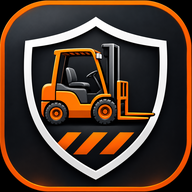
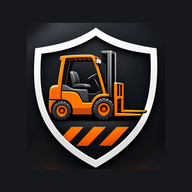
Add files via upload

diff --git a/index.html b/index.html
@@ -8,7 +8,7 @@
     <link rel="manifest" href="./manifest.json">
     <link rel="icon" type="image/png" sizes="32x32" href="./favicon-32.png">
     <link rel="apple-touch-icon" href="./app-icon-192.png">
-    <title>Lion Brewery (Biyagama) — Forklift Safety & Pre-Check Management System</title>
+    <title>LION BREWERY CEYLON PLC — Forklift Safety & Pre-Check</title>
     <!-- Tailwind CSS -->
     <script src="https://cdn.tailwindcss.com"></script>
     <!-- Google Fonts: Inter -->
@@ -216,30 +216,23 @@
     </div>
 
     <!-- Top Header & Navigation -->
-    <header class="sticky top-0 z-40 backdrop-blur-md border-b" style="background-color: var(--bg-card); border-color: var(--border-color);">
-        <div class="max-w-[1600px] mx-auto px-4 sm:px-6 lg:px-8 py-3.5 flex flex-col md:flex-row items-center justify-between gap-3">
-            <!-- Brand Title -->
-            <div class="flex items-center gap-3.5 w-full md:w-auto">
-                <div class="w-11 h-11 rounded-2xl flex items-center justify-center shadow-lg shrink-0" style="background: linear-gradient(135deg, var(--accent-color), var(--accent-hover));">
-                    <i class="fa-solid fa-shield-halved text-white text-xl"></i>
-                </div>
-                <div>
-                    <div class="flex items-center gap-2">
-                        <span class="px-2 py-0.5 text-[10px] font-bold uppercase tracking-wider rounded-md border" style="background-color: var(--accent-glow); color: var(--accent-color); border-color: var(--border-color);">
-                            HSE & Fleet Compliance
-                        </span>
-                        <span class="text-xs" style="color: var(--text-muted);">&#8226; Biyagama Plant</span>
-                    </div>
-                    <h1 class="text-sm sm:text-base lg:text-lg font-extrabold tracking-tight mt-0.5" style="color: var(--text-main);">
-                        Lion Brewery (Biyagama) &mdash; Forklift Safety & Pre-Check Management System
+    <header class="border-b" style="border-color: var(--border-color);">
+        <div class="relative overflow-hidden" style="background:#1a1208;">
+            <img src="./lion-banner.jpg" alt="Lion Beer" class="absolute inset-0 w-full h-full object-cover" style="object-position:left center; opacity:.95;">
+            <div class="absolute inset-0" style="background:linear-gradient(90deg, rgba(10,10,12,.05) 0%, rgba(10,10,12,.55) 45%, rgba(10,10,12,.88) 100%);"></div>
+            <div class="relative max-w-[1600px] mx-auto px-4 sm:px-6 lg:px-8 py-5 sm:py-7 flex items-center justify-end gap-3.5 min-h-[150px] sm:min-h-[190px]">
+                <div class="text-right max-w-[62%] sm:max-w-[60%]">
+                    <img src="./header-logo.png" alt="Forklift Safety" class="w-12 h-12 sm:w-14 sm:h-14 rounded-2xl shadow-lg ml-auto mb-2">
+                    <h1 class="text-sm sm:text-xl lg:text-2xl font-extrabold tracking-tight leading-tight" style="color:#fff; text-shadow:0 2px 8px rgba(0,0,0,.7);">
+                        LION BREWERY CEYLON PLC
+                        <span class="block mt-0.5" style="color:#ffb274;">Forklift Safety &amp; Pre-Check</span>
                     </h1>
                 </div>
             </div>
-
-            <!-- Header Right Controls & Theme Selector -->
-            <div class="flex items-center gap-3 w-full md:w-auto justify-between md:justify-end">
-                <!-- Primary View Navigation -->
-                <nav class="flex items-center gap-2 p-1.5 rounded-2xl border" style="background-color: var(--bg-card); border-color: var(--border-color);">
+        </div>
+        <div class="hidden md:block" style="background-color: var(--bg-card);">
+            <div class="max-w-[1600px] mx-auto px-4 sm:px-6 lg:px-8 py-2.5 flex justify-end">
+                <nav class="hidden md:flex items-center gap-2 p-1.5 rounded-2xl border" style="background-color: var(--bg-card); border-color: var(--border-color);">
                     <button type="button" id="navDashboardBtn" onclick="switchView('dashboard')"
                         class="flex items-center gap-2 px-3.5 py-2 rounded-xl text-xs font-semibold transition-all text-white shadow-md" style="background-color: var(--accent-color);">
                         <i class="fa-solid fa-chart-line"></i>
@@ -312,6 +305,12 @@
                         class="flex items-center gap-2 px-4 py-2 rounded-xl text-xs font-bold text-white shadow-lg transition-all" style="background-color: var(--accent-color);">
                         <i class="fa-solid fa-plus"></i>
                         <span>New Inspection (APK)</span>
+                    </button>
+
+                    <button type="button" onclick="openScanner()"
+                        class="flex items-center gap-2 px-4 py-2 rounded-xl text-xs font-bold border shadow transition-all" style="background-color: var(--bg-main); border-color: var(--border-color); color: var(--accent-color);">
+                        <i class="fa-solid fa-qrcode"></i>
+                        <span>Scan QR</span>
                     </button>
                 </div>
             </div>
@@ -548,6 +547,7 @@
                             <select id="formForkliftNo" onchange="onForkliftChange()" required
                                 class="w-full border rounded-xl px-3.5 py-3 text-sm font-bold focus:outline-none" style="background-color: var(--bg-main); border-color: var(--border-color); color: var(--text-main);">
                             </select>
+                            <button type="button" onclick="openScanner()" class="w-full mt-2 py-2.5 rounded-xl text-xs font-bold text-white shadow flex items-center justify-center gap-2" style="background-color: var(--accent-color);"><i class="fa-solid fa-camera"></i> Scan forklift QR with camera</button>
                             <div id="forkliftLockWarn"></div>
                         </div>
 
@@ -891,6 +891,21 @@
     <!-- ===================================================================== -->
     <!-- FLOATING BOTTOM NAVIGATION (Image-3 style)                            -->
     <!-- ===================================================================== -->
+    <!-- QR SCANNER -->
+    <div id="scanOverlay" class="fixed inset-0 z-[60] hidden flex-col" style="background:#000;">
+        <div class="flex items-center justify-between px-4 py-3" style="background:#111215; color:#fff;">
+            <div class="font-extrabold text-sm"><i class="fa-solid fa-qrcode mr-2" style="color:var(--accent-color);"></i>Scan forklift QR</div>
+            <button type="button" onclick="closeScanner()" class="px-3 py-1.5 rounded-lg text-xs font-bold border" style="border-color:#333; color:#fff;"><i class="fa-solid fa-xmark mr-1"></i>Close</button>
+        </div>
+        <div class="relative flex-1 overflow-hidden">
+            <video id="scanVideo" class="absolute inset-0 w-full h-full object-cover" playsinline muted autoplay></video>
+            <div class="absolute inset-0 flex items-center justify-center pointer-events-none">
+                <div style="width:68vmin; height:68vmin; max-width:340px; max-height:340px; border:3px solid #ff7a1a; border-radius:20px; box-shadow:0 0 0 100vmax rgba(0,0,0,.45);"></div>
+            </div>
+        </div>
+        <div id="scanMsg" class="px-4 py-3 text-center text-sm font-semibold" style="background:#111215; color:#d4d4d8;">Point the camera at the QR label on the forklift.</div>
+    </div>
+
     <nav id="bottomNav" class="fixed bottom-4 left-1/2 -translate-x-1/2 z-40 md:hidden">
         <div class="flex items-center gap-1 px-2 py-1.5 rounded-full border shadow-2xl"
              style="background-color: var(--bg-card); border-color: var(--border-color); box-shadow: 0 12px 32px rgba(0,0,0,0.45);">
@@ -1954,6 +1969,58 @@ function handleDeepLink() {
   const r = forkliftFromUrl(location.href); if (r.none) return; history.replaceState(null, '', location.pathname);
   if (r.unit) { switchView('apk'); $('formForkliftNo').value = r.unit; onForkliftChange(); showToast('Forklift selected', r.unit + ' opened from its QR label.', 'fa-qrcode'); }
   else showToast('Unknown forklift code', `"${r.raw}" is not in the forklift list. Choose it by hand.`, 'fa-triangle-exclamation');
+}
+
+/* ---- camera QR scanner ---- */
+let scanStream = null, scanRunning = false, scanDetector = null, jsQRLoading = null;
+function loadJsQR() {
+  if (window.jsQR) return Promise.resolve();
+  if (jsQRLoading) return jsQRLoading;
+  jsQRLoading = new Promise((res, rej) => { const el = document.createElement('script'); el.src = 'https://cdn.jsdelivr.net/npm/jsqr@1.4.0/dist/jsQR.js'; el.onload = res; el.onerror = () => { jsQRLoading = null; rej(new Error('load')); }; document.head.appendChild(el); });
+  return jsQRLoading;
+}
+async function openScanner() {
+  const ov = $('scanOverlay'), msg = $('scanMsg'), vid = $('scanVideo');
+  if (!navigator.mediaDevices || !navigator.mediaDevices.getUserMedia) { showToast('Camera not available', 'Open the app from the https link, or choose the forklift by hand.', 'fa-triangle-exclamation'); return; }
+  ov.classList.remove('hidden'); ov.classList.add('flex'); msg.textContent = 'Starting camera...';
+  try {
+    scanStream = await navigator.mediaDevices.getUserMedia({ video: { facingMode: { ideal: 'environment' } }, audio: false });
+    vid.srcObject = scanStream; await vid.play();
+  } catch (e) {
+    msg.textContent = 'Camera is blocked. Allow camera for this app in the browser settings, or choose the forklift by hand.'; scanStream = null; return;
+  }
+  scanDetector = null;
+  if ('BarcodeDetector' in window) { try { scanDetector = new BarcodeDetector({ formats: ['qr_code'] }); } catch (e) { scanDetector = null; } }
+  if (!scanDetector) { try { await loadJsQR(); } catch (e) { msg.textContent = 'Scanner could not load. Connect to the internet once, then try again.'; return; } }
+  msg.textContent = 'Point the camera at the QR label on the forklift.'; scanRunning = true; scanLoop();
+}
+function closeScanner() {
+  scanRunning = false;
+  if (scanStream) { scanStream.getTracks().forEach(t => t.stop()); scanStream = null; }
+  const v = $('scanVideo'); if (v) v.srcObject = null;
+  const ov = $('scanOverlay'); ov.classList.add('hidden'); ov.classList.remove('flex');
+}
+async function scanLoop() {
+  const vid = $('scanVideo'), cv = document.createElement('canvas'), cx = cv.getContext('2d', { willReadFrequently: true });
+  while (scanRunning) {
+    await new Promise(r => setTimeout(r, 180));
+    if (!scanRunning || vid.readyState < 2 || !vid.videoWidth) continue;
+    let text = null;
+    try {
+      if (scanDetector) { const c = await scanDetector.detect(vid); if (c.length) text = c[0].rawValue; }
+      else {
+        const w = Math.min(640, vid.videoWidth), h = Math.round(w * vid.videoHeight / vid.videoWidth); cv.width = w; cv.height = h; cx.drawImage(vid, 0, 0, w, h);
+        const r = window.jsQR(cx.getImageData(0, 0, w, h).data, w, h, { inversionAttempts: 'dontInvert' }); if (r) text = r.data;
+      }
+    } catch (e) {}
+    if (text) { onScanned(text); return; }
+  }
+}
+function onScanned(text) {
+  let unit = null; const r = forkliftFromUrl(text);
+  if (!r.none) unit = r.unit; else unit = normalizeForklift(text.trim());
+  if (unit) { closeScanner(); switchView('apk'); $('formForkliftNo').value = unit; onForkliftChange(); showToast('Forklift selected', unit + ' scanned from its QR label.', 'fa-qrcode'); }
+  else { $('scanMsg').textContent = 'This QR is not a forklift label from this app. Try again.'; setTimeout(() => { if (scanRunning) scanLoop(); }, 1200); }
 }
 
 /* ---- start ---- */

diff --git a/service-worker.js b/service-worker.js
@@ -3,18 +3,19 @@
    - own files (icons, manifest): cache first, refreshed in the background
    - CDN files (Tailwind, Chart.js, Font Awesome, Inter): saved on first visit so the app works offline
    To release an update, change VERSION below. */
-const VERSION = "v5";
+const VERSION = "v6";
 const SHELL_CACHE = `forklift-shell-${VERSION}`;
 const CDN_CACHE = "forklift-cdn-v1";
 const SCOPE = self.registration.scope;
 
 const SHELL = ["./", "index.html", "manifest.json", "app-icon-192.png", "app-icon-512.png",
-               "app-icon-maskable-192.png", "app-icon-maskable-512.png", "favicon-32.png"].map(p => new URL(p, SCOPE).href);
+               "app-icon-maskable-192.png", "app-icon-maskable-512.png", "favicon-32.png", "lion-banner.jpg", "header-logo.png"].map(p => new URL(p, SCOPE).href);
 
 const CDN_HOSTS = ["cdn.tailwindcss.com", "cdn.jsdelivr.net", "cdnjs.cloudflare.com", "fonts.googleapis.com", "fonts.gstatic.com"];
 const CDN_PRECACHE = [
   "https://cdn.tailwindcss.com",
   "https://cdn.jsdelivr.net/npm/chart.js",
+  "https://cdn.jsdelivr.net/npm/jsqr@1.4.0/dist/jsQR.js",
   "https://cdnjs.cloudflare.com/ajax/libs/font-awesome/6.5.1/css/all.min.css",
   "https://fonts.googleapis.com/css2?family=Inter:wght@300;400;500;600;700;800&display=swap"
 ];

diff --git a/README.md b/README.md
@@ -5,7 +5,7 @@ Lion Brewery (Biyagama). A phone-friendly web app (PWA) for the daily 21-point f
 ## Upload to GitHub Pages
 1. Extract this ZIP on your phone or computer.
 2. In the GitHub repository choose Add file > Upload files.
-3. Upload every file (index.html, manifest.json, service-worker.js, README.md and the 5 PNG icons) to the repository root. Replace the old ones.
+3. Upload every file (index.html, manifest.json, service-worker.js, README.md, lion-banner.jpg and the 6 PNG files) to the repository root. Replace the old ones.
 4. Commit. Wait for the Pages deployment to finish, then open the https Pages link (not the github.com repository page).
 5. Open the app online once, then refresh it once more. After that it also opens without internet.
 6. If an older version is installed on a phone, remove the old home-screen icon and install again.
@@ -28,3 +28,10 @@ Lion Brewery (Biyagama). A phone-friendly web app (PWA) for the daily 21-point f
 - Do not clear the browser's site data, or the saved reports are lost.
 - The PIN keeps honest mistakes out. It is not strong security because the app has no server.
 - To release an update, change `VERSION` in service-worker.js (for example "v6").
+
+
+## v3 changes
+- New header: Lion banner image with "LION BREWERY CEYLON PLC - Forklift Safety & Pre-Check" and the forklift logo. The old title bar was removed (on phones use the bottom bar; on laptops the menu sits under the banner).
+- App icon, home-screen icon and favicon are now the forklift shield picture.
+- Camera QR scanner: "Scan QR" on the Dashboard and "Scan forklift QR with camera" in the inspection form. It selects the forklift from its QR label. The camera needs the https link and camera permission. Phones without a built-in QR reader load a small helper (jsQR) once from the internet.
+- Service worker version is v6. Remove the old home-screen icon and install again if the old icon still shows.
